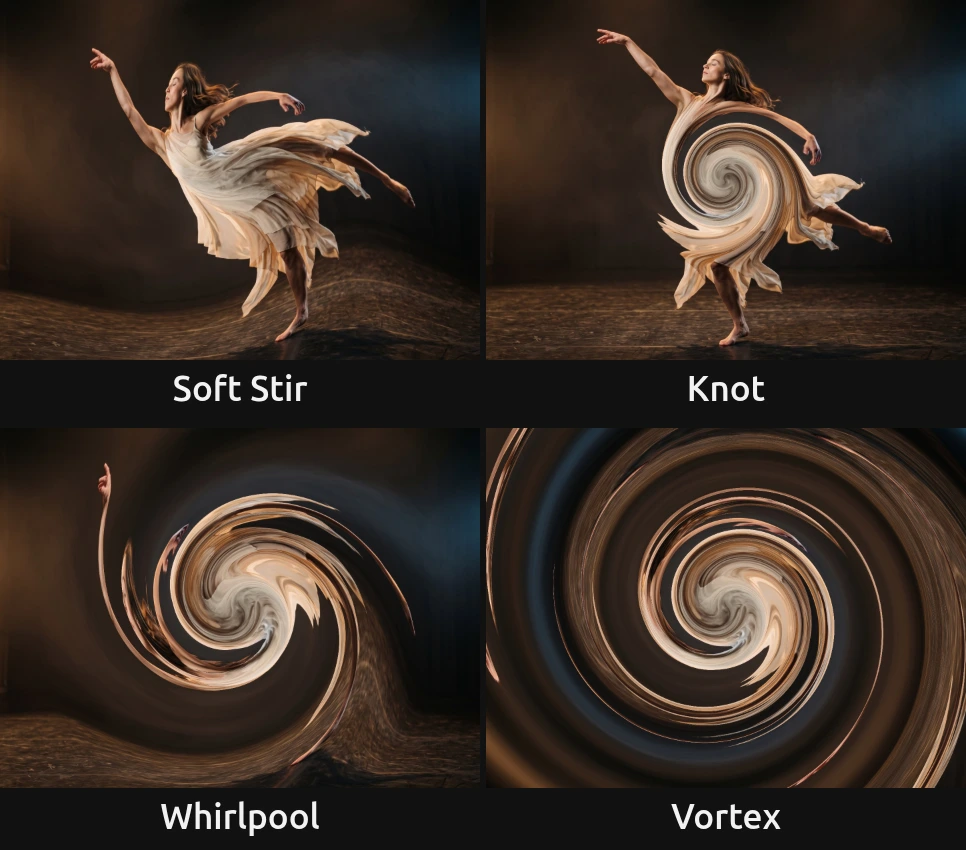
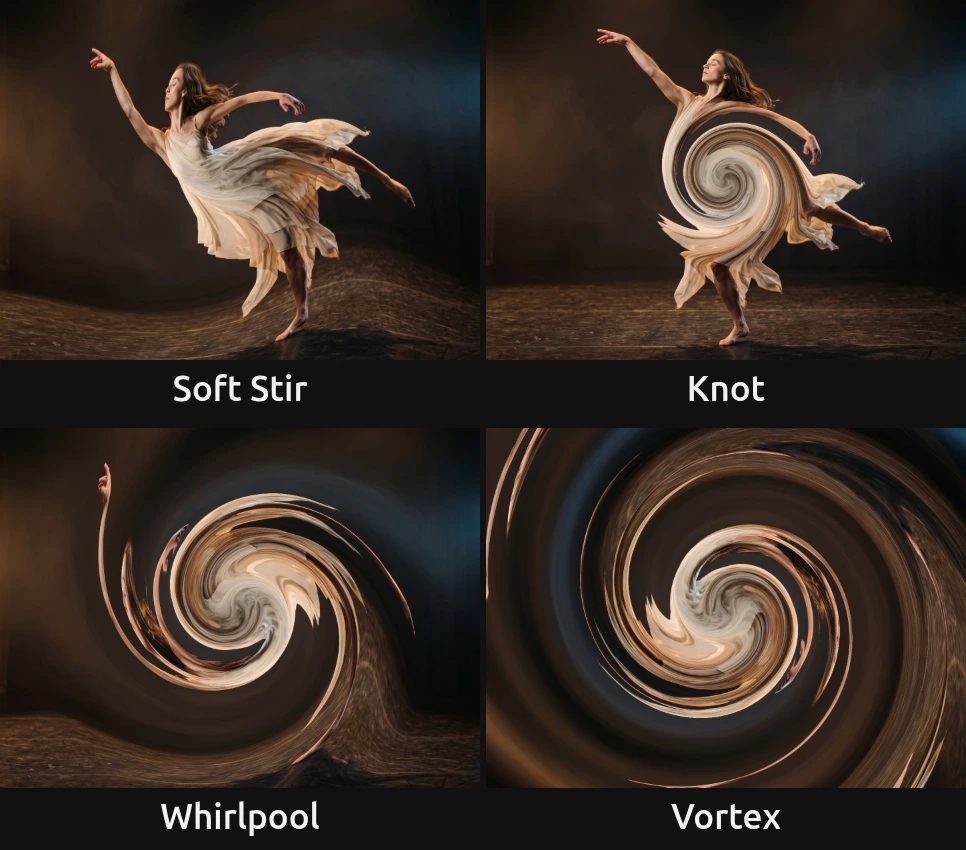
fix(twirl): Vortex preset at 540° instead of 720°, below the strength where single-read sampling shimmers on fine moving detail, strip re-rendered (tests: effectPresets, effectPresetGraphValues, effectPresetLibrary, docsMediaRecipes, effectDocsCatalog, docsSiteSync)
Claude-Session: https://claude.ai/code/session_01SPCZUmow7FhgFsrvju87Zb

Changed region(s): [[0.4969, 0.4894, 1.0, 0.9482], [0.9627, 0.4894, 1.0, 0.5506]]

diff --git a/src/effects/distort/twirl/index.ts b/src/effects/distort/twirl/index.ts
@@ -15,8 +15,9 @@ export const TWIRL_PRESETS: readonly EffectPreset[] = [
   { id: 'knot', name: 'Knot', params: { amount: degrees(540), radius: 0.25 } },
   // One full turn: the middle spirals in, the edge of the area still shows the picture.
   { id: 'whirlpool', name: 'Whirlpool', params: { amount: degrees(360), radius: 0.6 } },
-  // Two full turns across the whole frame: nothing but spiral bands of colour.
-  { id: 'vortex', name: 'Vortex', params: { amount: degrees(720), radius: 1 } },
+  // One and a half turns across the whole frame: spiral bands of colour. 540°, under the ~570° where
+  // single-read sampling starts to shimmer on fine moving detail.
+  { id: 'vortex', name: 'Vortex', params: { amount: degrees(540), radius: 1 } },
 ];
 
 export const twirl: EffectDefinition = {

diff --git a/docs/Features/effects/twirl.md b/docs/Features/effects/twirl.md
@@ -36,7 +36,7 @@ Pick one in the **Preset** row of the effect card. It sets all controls at once,
 
 **Whirlpool** – Twist 360°, Radius 0.6: one full turn that draws the middle of the picture into a clear spiral, while the edges still show the scene.
 
-**Vortex** – Twist 720°, Radius 1: two full turns across the whole frame. Nothing is left but rings of colour; strong at the peak of a swirl transition.
+**Vortex** – Twist 540°, Radius 1: one and a half turns across the whole frame, still below the strength where fine detail shimmers. Nothing is left but rings of colour; strong at the peak of a swirl transition.
 
 ## Controls
 
